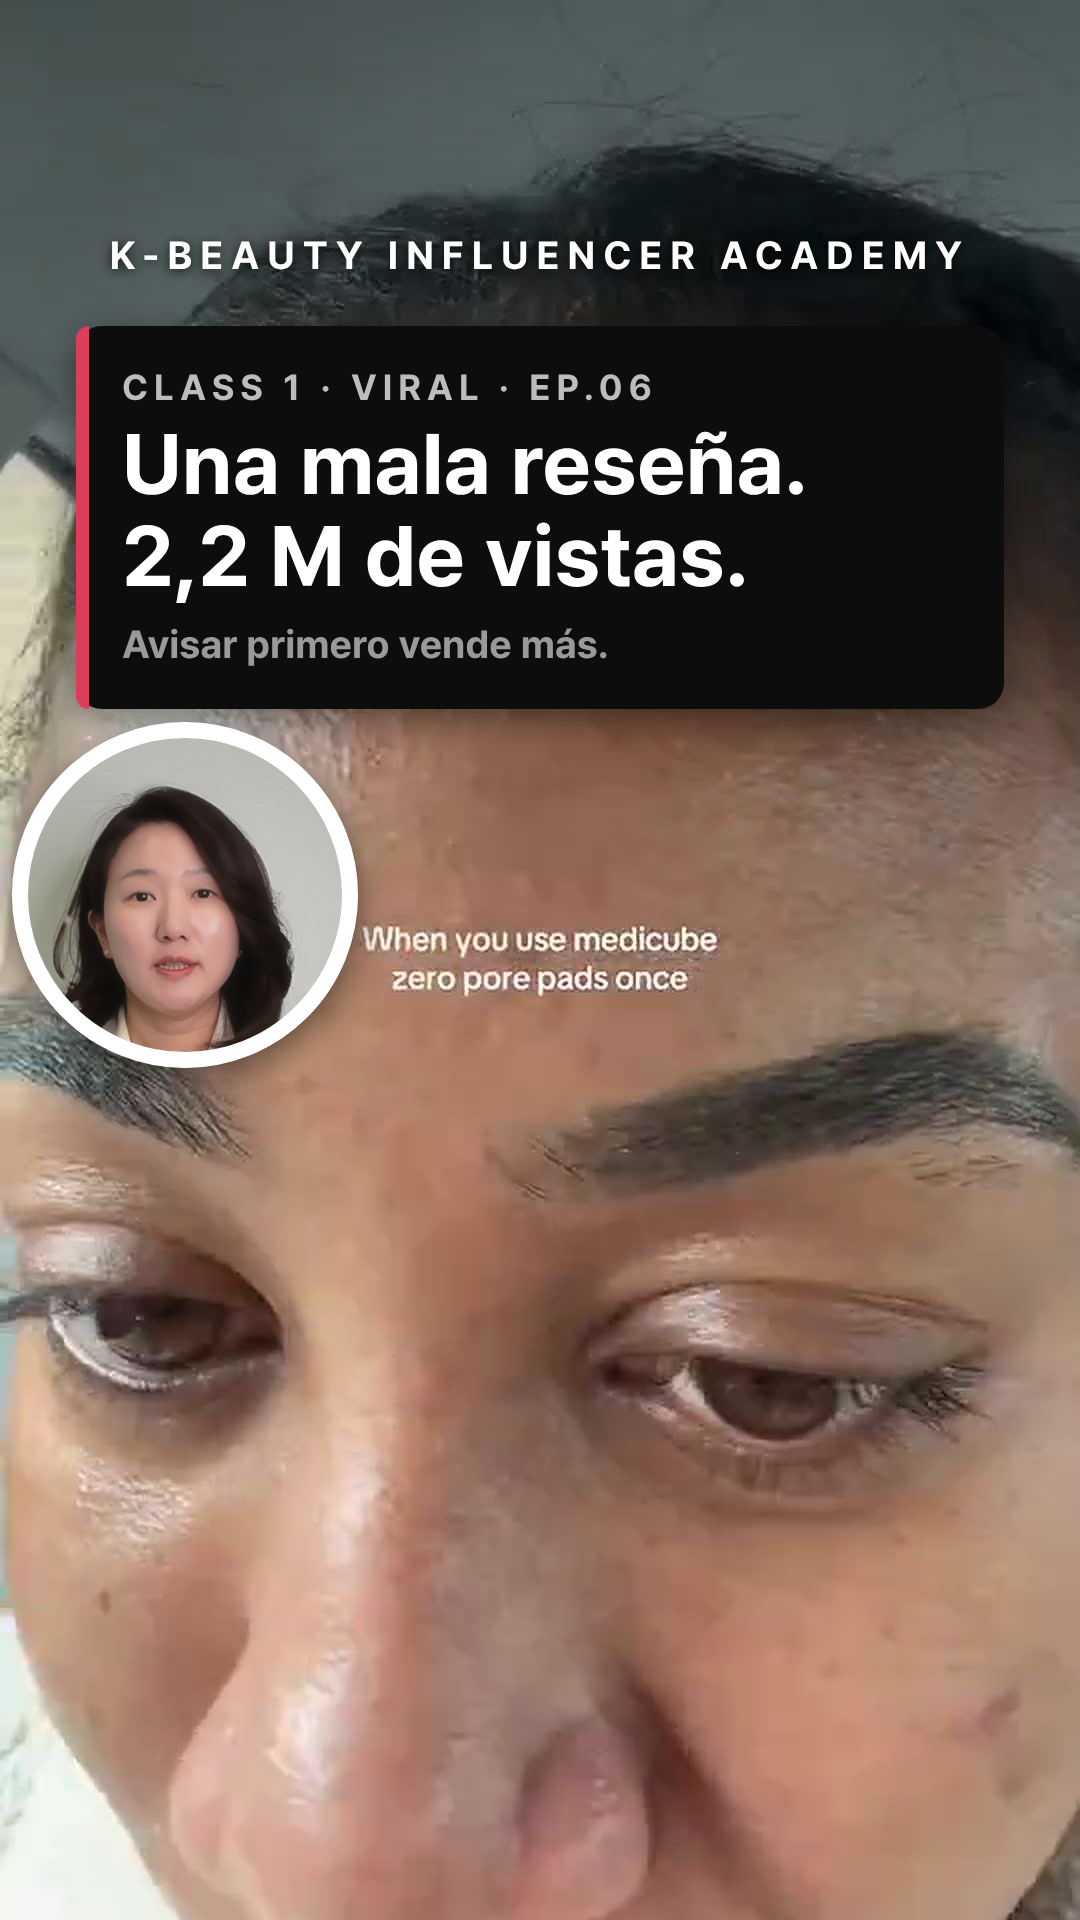
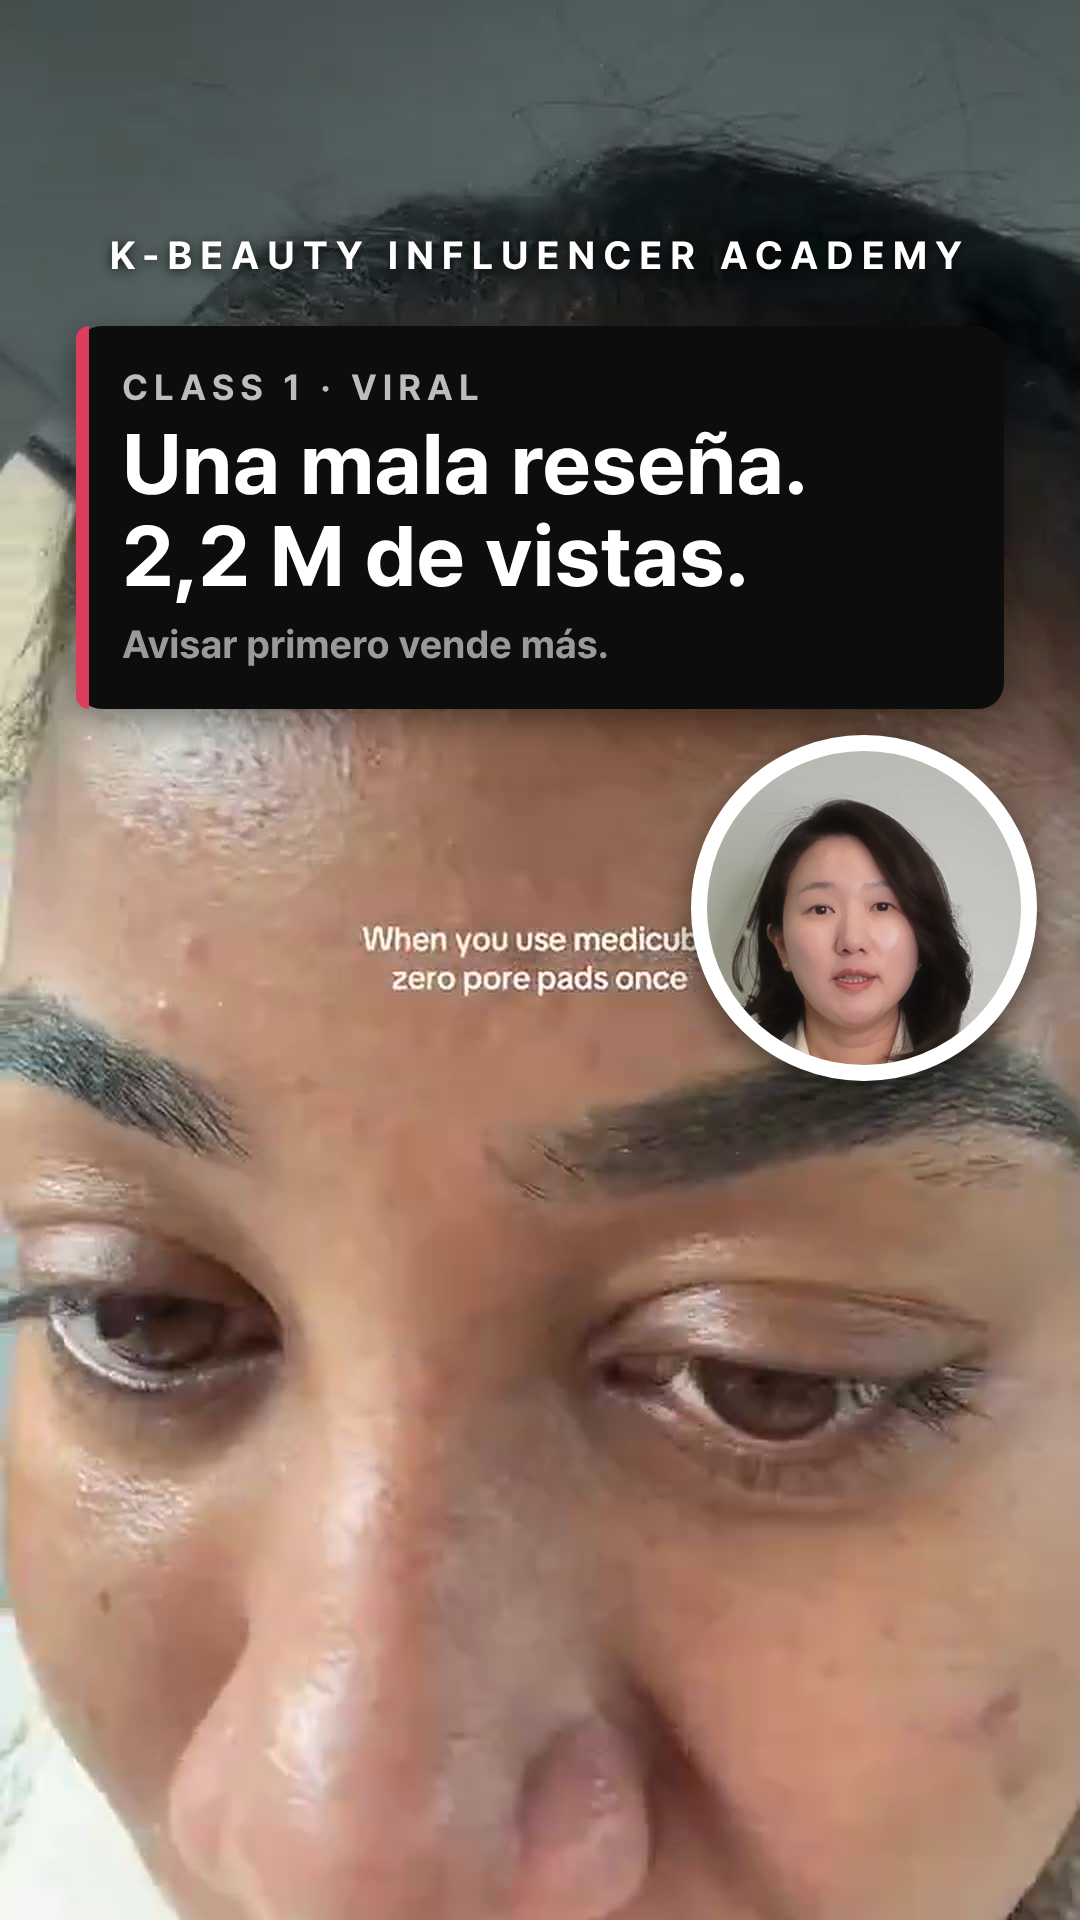
Thumbnails: fixed CEO circle position, drop episode number; re-render 001-010
Claude-Session: https://claude.ai/code/session_01NBw83u7YiR7WixSKKJmAKg

Changed region(s): [[0.6111, 0.375, 0.9778, 0.5625], [0.0, 0.375, 0.3361, 0.5625], [0.4889, 0.1875, 0.6111, 0.2188]]

diff --git a/plan/pipeline/tools/ep_final.py b/plan/pipeline/tools/ep_final.py
@@ -21,9 +21,7 @@ if ov.get('thumb_blur_top') or auto_blur:   # 원본에 박힌 상단 글자가 
 bv = f'{D}/beauty.mp4'; fx, fy = (160, 60) if p['crop'] == [900, 30, 60] else (220, 520)
 run(['ffmpeg', '-v', 'error', '-y', '-ss', '1.0', '-i', bv, '-frames:v', '1', '-vf', f'crop=640:640:{fx}:{fy},scale=400:400', f'{D}/ceo_face.png'])
 ep_i = int(no)
-# 원형 위치: 편마다 원본 인물 눈·입·글자를 피해 자동 선택 (pip_pick.py)
-px, py = subprocess.run(['python3', S + '/tools/pip_pick.py', f'{D}/thumb_bg.jpg'], capture_output=True, text=True).stdout.split()[-2:]
-if ov.get('pip_xy'): px, py = map(str, ov['pip_xy'])   # 자동이 어색하면 편별로 손으로 지정
+px, py = '691', '735'   # 원형 위치는 모든 편 동일 (제목 박스 바로 아래 오른쪽) — 그리드에서 깔끔하게
 run(['python3', f'{REPO}/plan/reel001/template/make_thumb.py', '--bg', f'{D}/thumb_bg.jpg', '--cat', 'C1', '--label', 'CLASS 1 · VIRAL', '--ep', str(ep_i),
      '--title', '|'.join(p['title_es']), '--sub', ov.get('thumb_sub_es', '¿Qué hizo diferente?'), '--pip', f'{D}/ceo_face.png', '--pip-x', px, '--pip-y', py, '--brand-text', '', '--out', f'{F}/{no}_썸네일.png'])
 

diff --git a/plan/reel001/template/make_thumb.py b/plan/reel001/template/make_thumb.py
@@ -59,7 +59,7 @@ def render(spec: dict, browser) -> Path:
         sys.exit(f"배경 이미지 없음: {bg}")
     use_pip = cat != "F" and not spec.get("no_pip", False)
     pip_path = Path(spec.get("pip") or HERE / "assets" / "ceo_circle.png")
-    label = f"{spec['label']} · EP.{int(spec['ep']):02d}"
+    label = spec["label"]   # 편 번호는 넣지 않음 (순서가 바뀔 수 있음)
     html = HTML.format(
         W=W, H=H, bg=data_uri(bg), color=COLORS[cat], academy=esc(spec.get("academy_text", "K-Beauty Influencer Academy")),
         label=esc(label), title=esc(spec["title"]).replace("|", "<br>"), sub=esc(spec.get("sub", "")),

diff --git a/plan/EDIT_RULES.md b/plan/EDIT_RULES.md
@@ -57,7 +57,7 @@
 ## 7. 편당 납품
 `plan/final/NNN/`: ES 최종 mp4 · KO(대표 원음) mp4 · 썸네일 png · 업로드 문구(ES 캡션 + KO 뜻 + 체크리스트).
 썸네일: `make_thumb.py` (C1 핑크, 제목 2줄, 부제는 스페인어, 원형 = 보정한 대표 얼굴, brand 없음).
-- **썸네일 원형 위치는 편마다 자동** (`pip_pick.py`): 원본 인물 눈·입·얼굴, 화면 글자를 피하고, 프로필 그리드(4:5) 안, 위쪽(제목 박스 바로 아래) 우선. 어색하면 override `pip_xy:[x,y]`로 손으로 지정 (006). 원본 상단 글자가 헤더와 겹치면 `thumb_blur_top: 높이px`로 그 띠만 흐리게 (008). 헤더 줄 자리에 글자가 감지되면 자동으로 흐림.
+- **썸네일 원형 위치는 모든 편 동일** (x691·y735, 제목 박스 바로 아래 오른쪽) — 프로필 그리드에서 일정하게 보이도록. **편 번호(EP.NN)는 넣지 않음** (순서가 바뀔 수 있음). 원본 상단 글자가 헤더와 겹치면 `thumb_blur_top: 높이px`로 그 띠만 흐리게 (008). 헤더 줄 자리에 글자가 감지되면 자동으로 흐림.
 
 ## 8. 편 번호 · 촬영본
 - **편 번호(001~026) = 콘텐츠 순서.** "007편" = 7번째 콘텐츠(판매량 숫자 후킹). 한 편 안의 구간은 HOOK·01~05·CTA로 부른다.
